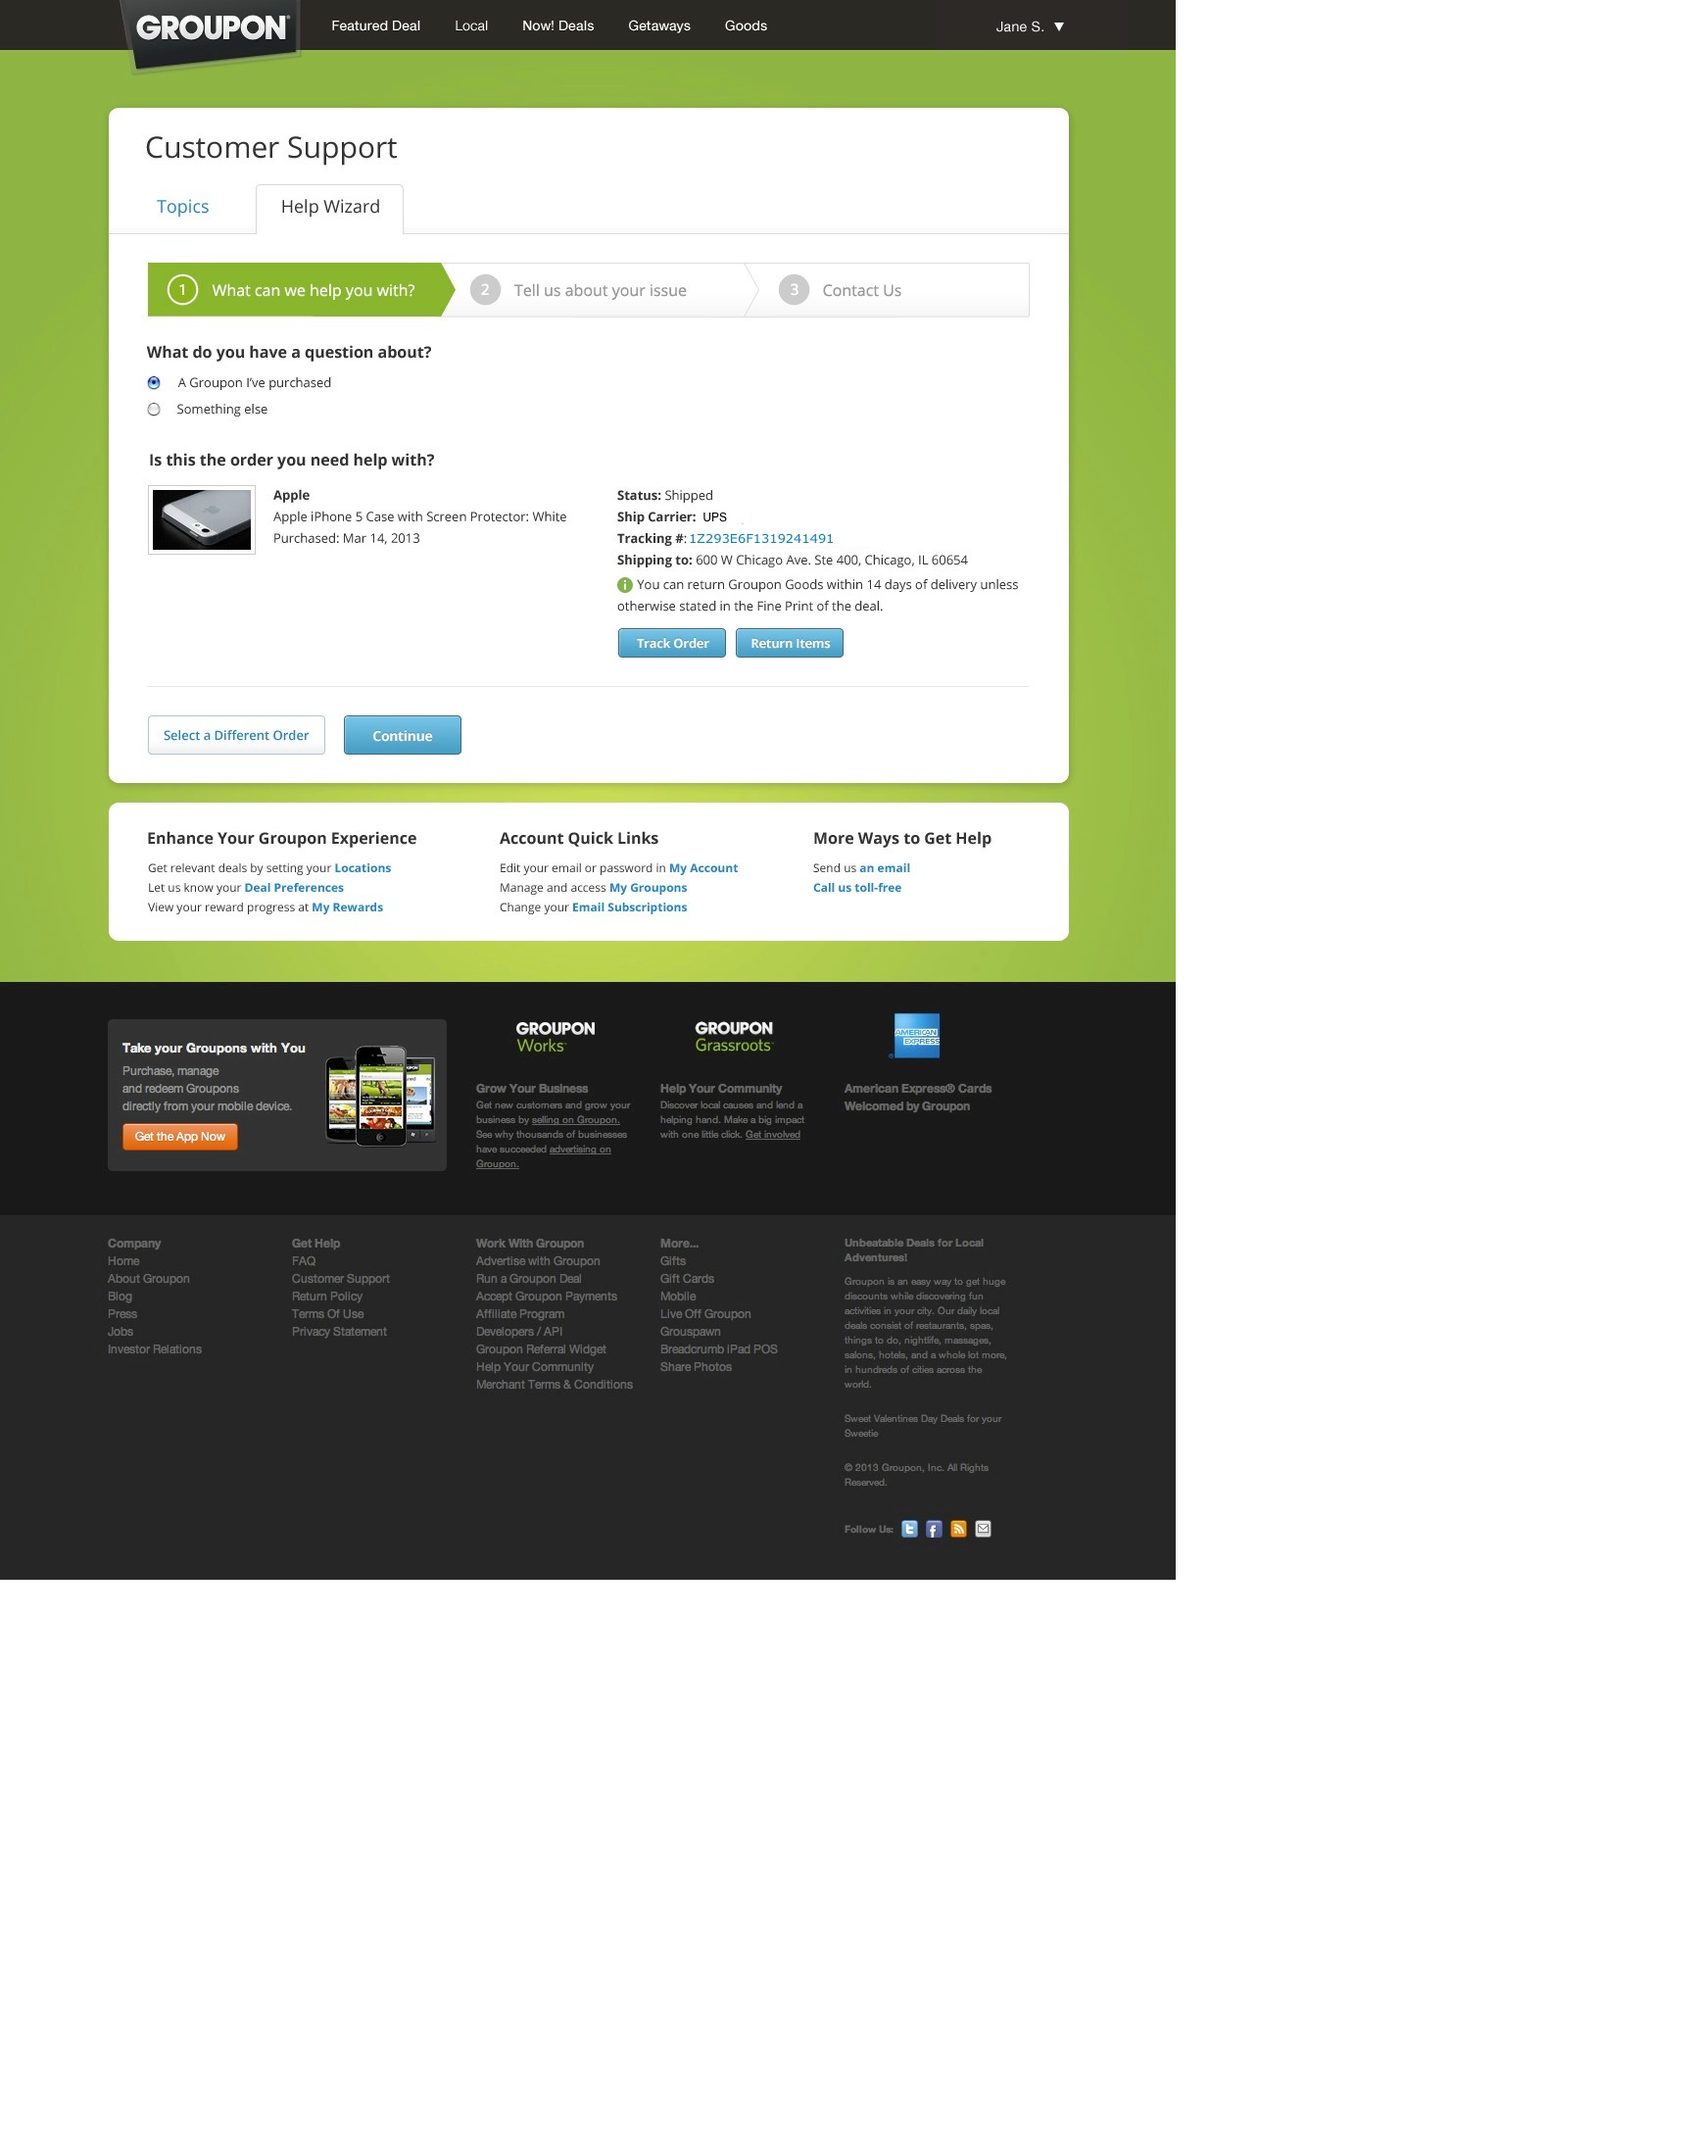
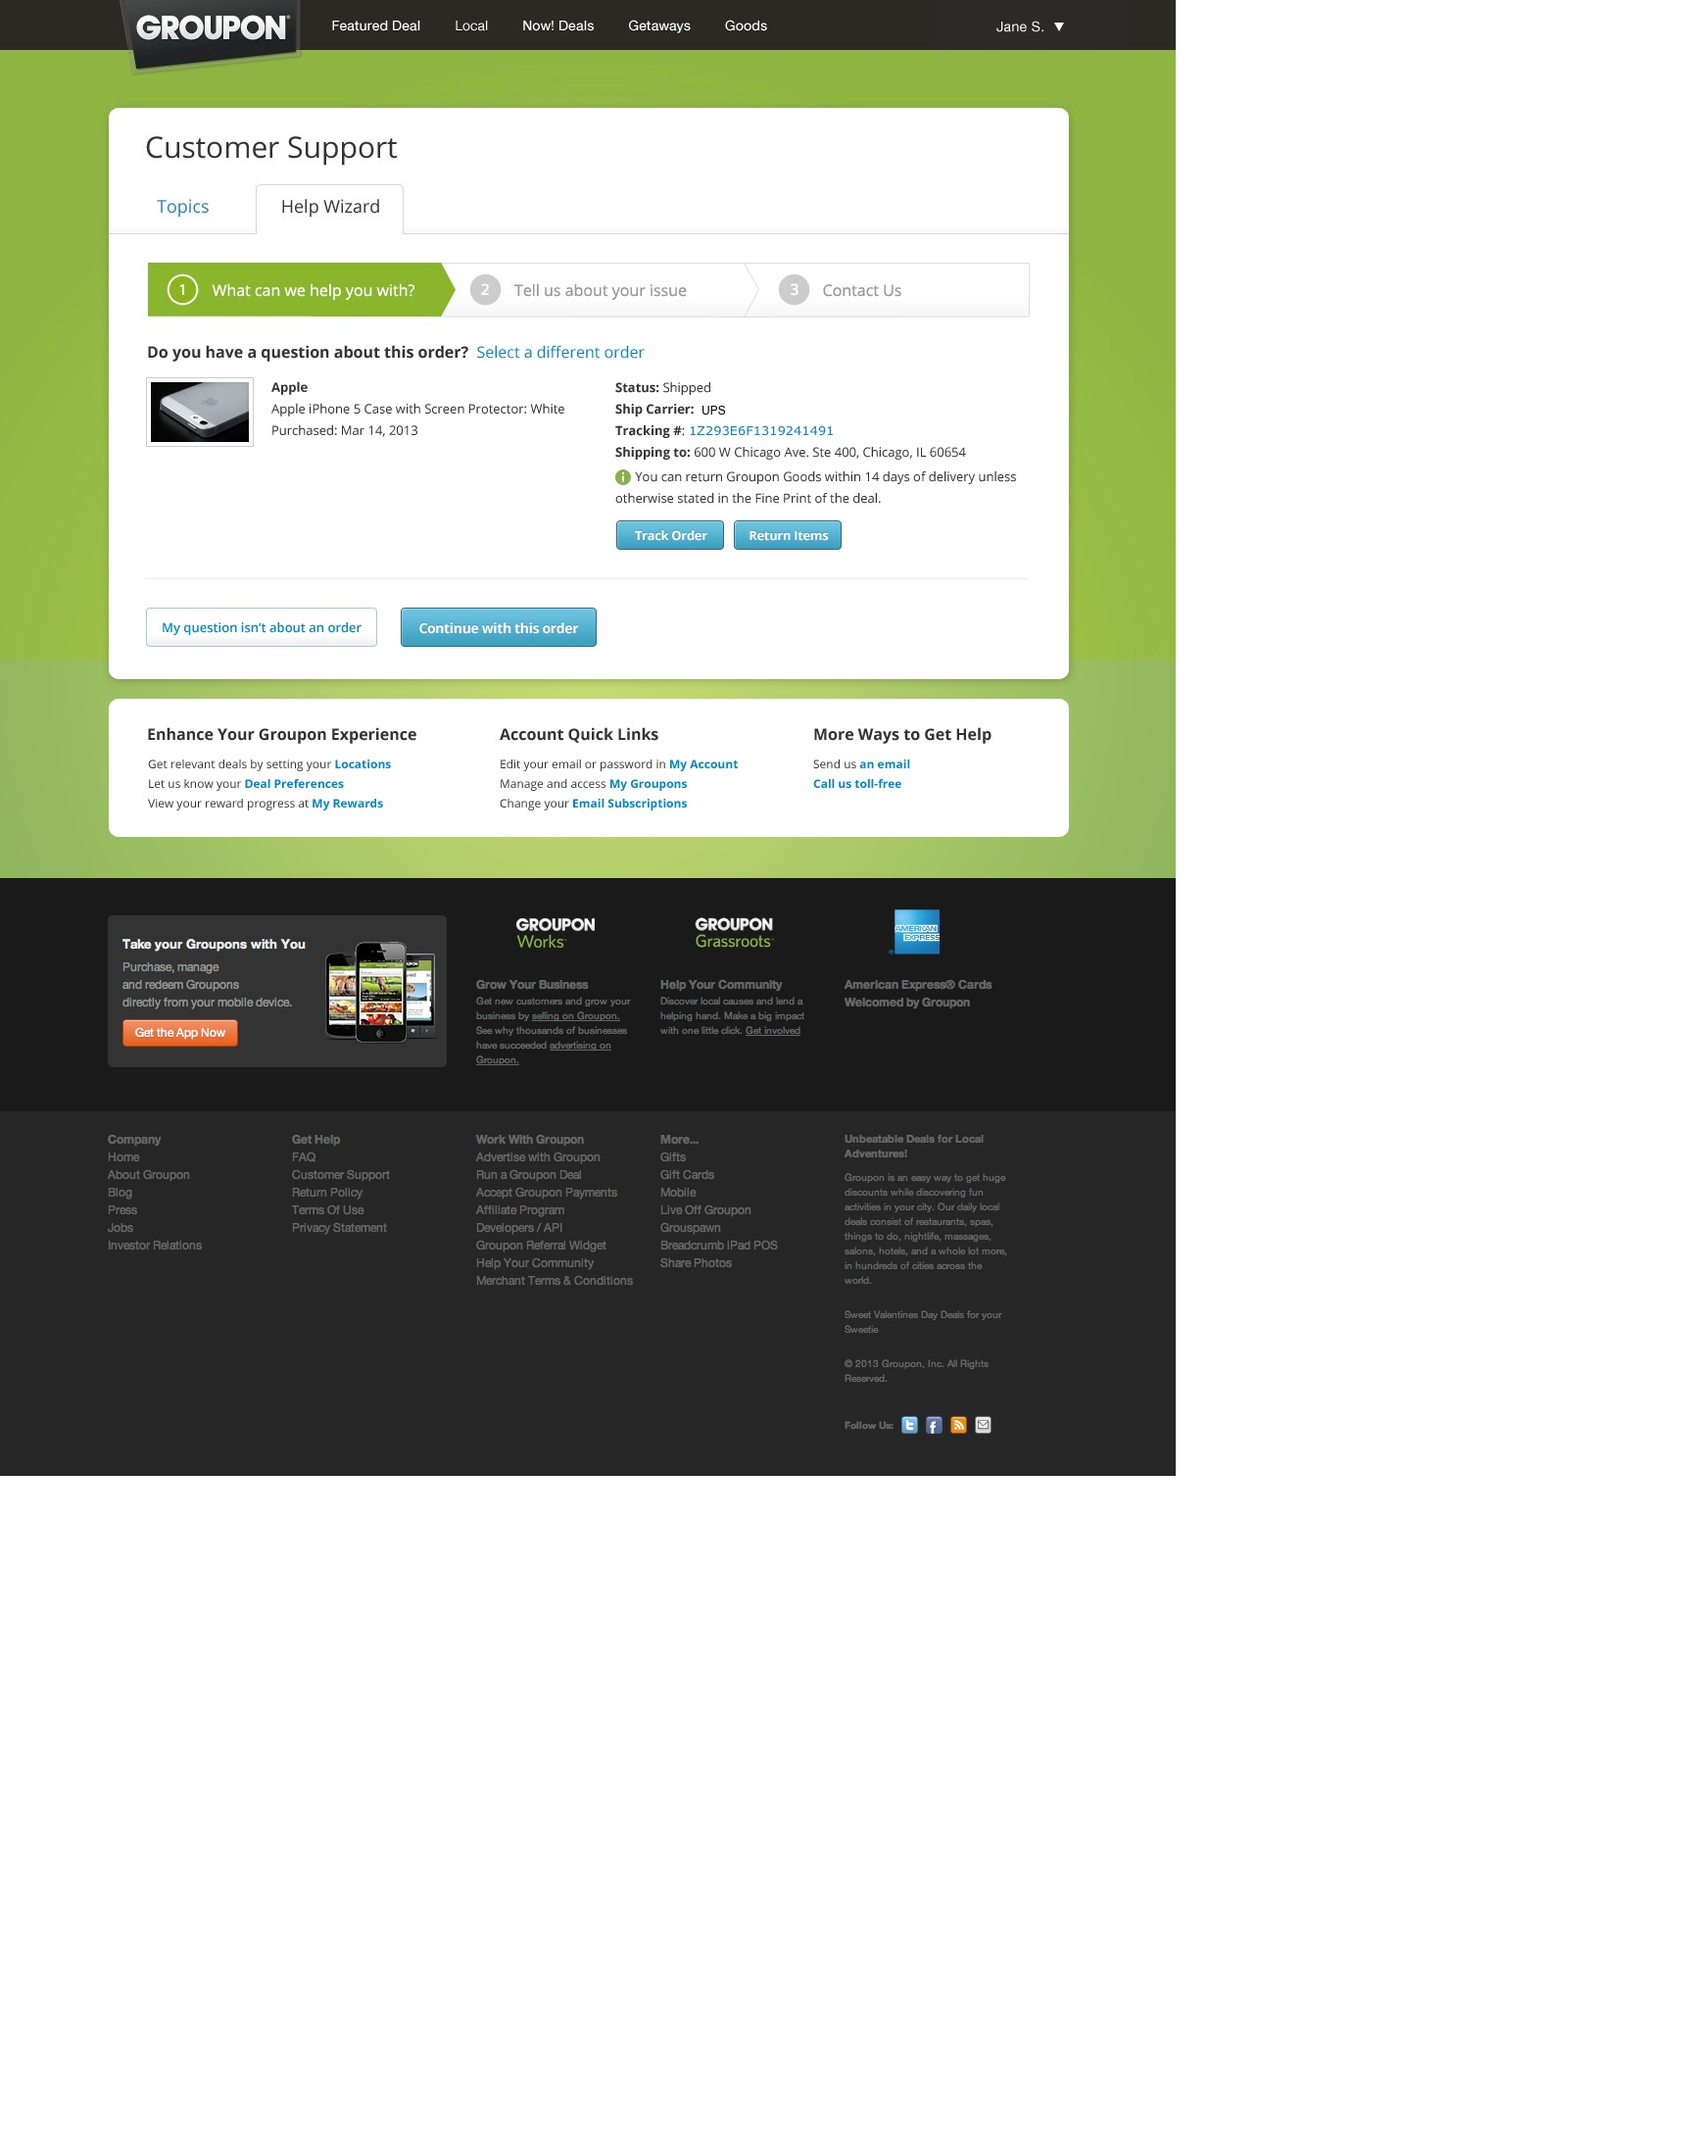
Updated Step 1 for all use cases

Changed region(s): [[0.0, 0.1546, 0.7188, 0.7422]]

diff --git a/Step1 - Balsan - Edit Order.html b/Step1 - Balsan - Edit Order.html
@@ -1,11 +1,14 @@
 <map name="GraffleExport">
+	<area shape=rect coords="295,1124,403,1143" href="Step1%20-%20Apple%20-%20Tracking.html">
+	<area shape=rect coords="292,1234,400,1253" href="Step1%20-%20Apple%20-%20Tracking.html">
+	<area shape=rect coords="291,1235,399,1254" href="Step1%20-%20Apple%20-%20Tracking.html">
+	<area shape=rect coords="716,472,824,505" href="Balsan%20Cancel%20Order.html">
+	<area shape=rect coords="603,472,706,505" href="Balsan%20Edit%20Order.html">
+	<area shape=rect coords="407,565,603,603" href="Step%202%20-%20Balsan%20DD1.html">
+	<area shape=rect coords="477,349,656,372" href="Select%20an%20order%20modal.html">
 	<area shape=rect coords="125,4,304,52" href="index.html">
-	<area shape=rect coords="722,580,830,613" href="Balsan%20Cancel%20Order.html">
-	<area shape=rect coords="609,580,712,613" href="Balsan%20Edit%20Order.html">
-	<area shape=rect coords="352,673,472,711" href="Step%202%20-%20Balsan%20DD1.html">
-	<area shape=rect coords="151,673,330,711" href="Select%20an%20order%20modal.html">
 	<area shape=rect coords="135,193,243,231" href="Cat%20Page%20-%20Default.html">
-	<area shape=rect coords="294,1236,402,1255" href="Step1%20-%20Apple%20-%20Tracking.html">
+	<area shape=rect coords="292,1236,400,1255" href="Step1%20-%20Apple%20-%20Tracking.html">
 	<area shape=rect coords="155,305,491,344" href="Step1%20-%20TomatoHead%20-%20Expired.html">
 </map>
 <img border=0 src="Step1%20-%20Balsan%20-%20Edit%20Order.jpg" usemap="#GraffleExport">

diff --git a/Step1 - Apple - No Tracking - TT.html b/Step1 - Apple - No Tracking - TT.html
@@ -1,10 +1,12 @@
 <map name="GraffleExport">
-	<area shape=rect coords="742,115,1089,798" href="Step1%20-%20Apple%20-%20No%20Tracking.html">
-	<area shape=rect coords="631,641,739,671" href="Return%20Modal%20No%20Tracking.html">
+	<area shape=rect coords="297,1184,405,1203" href="Step1%20-%20Apple%20-%20Tracking.html">
+	<area shape=rect coords="294,1295,402,1314" href="Step1%20-%20Apple%20-%20Tracking.html">
+	<area shape=rect coords="742,8,1089,691" href="Step1%20-%20Apple%20-%20No%20Tracking.html">
+	<area shape=rect coords="631,534,739,564" href="Return%20Modal%20No%20Tracking.html">
+	<area shape=rect coords="409,624,610,662" href="Step%202%20-%20Apple%20DD1.html">
+	<area shape=rect coords="486,351,665,370" href="Select%20an%20order%20modal.html">
 	<area shape=rect coords="125,4,304,52" href="index.html">
 	<area shape=rect coords="135,193,243,231" href="Cat%20Page%20-%20Default.html">
-	<area shape=rect coords="352,731,472,769" href="Step%202%20-%20Apple%20DD1.html">
-	<area shape=rect coords="151,731,330,769" href="Select%20an%20order%20modal.html">
 	<area shape=rect coords="135,193,243,231" href="Cat%20Page%20-%20Default.html">
 	<area shape=rect coords="293,1296,401,1315" href="Step1%20-%20Apple%20-%20Tracking.html">
 </map>

diff --git a/Step1 - Apple - No Tracking.html b/Step1 - Apple - No Tracking.html
@@ -1,10 +1,11 @@
 <map name="GraffleExport">
+	<area shape=rect coords="295,1184,403,1203" href="Step1%20-%20Apple%20-%20Tracking.html">
+	<area shape=rect coords="787,432,940,452" href="Step1%20-%20Apple%20-%20No%20Tracking%20-%20TT.html">
+	<area shape=rect coords="409,625,609,663" href="Step%202%20-%20Apple%20DD1.html">
+	<area shape=rect coords="484,350,656,370" href="Select%20an%20order%20modal.html">
+	<area shape=rect coords="631,535,739,565" href="Return%20Modal%20No%20Tracking.html">
 	<area shape=rect coords="125,4,304,52" href="index.html">
 	<area shape=rect coords="135,193,243,231" href="Cat%20Page%20-%20Default.html">
-	<area shape=rect coords="789,540,942,560" href="Step1%20-%20Apple%20-%20No%20Tracking%20-%20TT.html">
-	<area shape=rect coords="352,731,472,769" href="Step%202%20-%20Apple%20DD1.html">
-	<area shape=rect coords="151,731,330,769" href="Select%20an%20order%20modal.html">
-	<area shape=rect coords="631,641,739,671" href="Return%20Modal%20No%20Tracking.html">
 	<area shape=rect coords="134,191,242,229" href="Cat%20Page%20-%20Default.html">
 	<area shape=rect coords="292,1295,400,1314" href="Step1%20-%20Apple%20-%20Tracking.html">
 </map>

diff --git a/Step1 - Apple - Tracking.html b/Step1 - Apple - Tracking.html
@@ -1,10 +1,11 @@
 <map name="GraffleExport">
+	<area shape=rect coords="295,1189,403,1208" href="Step1%20-%20Apple%20-%20Tracking.html">
+	<area shape=rect coords="752,531,860,561" href="Return%20Modal.html">
+	<area shape=rect coords="632,531,740,561" href="UPS%20Tracking.html">
+	<area shape=rect coords="411,621,611,659" href="Step%202%20-%20Apple%20DD1.html">
+	<area shape=rect coords="485,348,664,374" href="Select%20an%20order%20modal.html">
+	<area shape=rect coords="703,431,852,447" href="UPS%20Tracking.html">
 	<area shape=rect coords="125,4,304,52" href="index.html">
-	<area shape=rect coords="703,541,852,557" href="UPS%20Tracking.html">
-	<area shape=rect coords="352,731,472,769" href="Step%202%20-%20Apple%20DD1.html">
-	<area shape=rect coords="151,731,330,769" href="Select%20an%20order%20modal.html">
-	<area shape=rect coords="752,641,860,671" href="Return%20Modal.html">
-	<area shape=rect coords="632,641,740,671" href="UPS%20Tracking.html">
 	<area shape=rect coords="135,193,243,231" href="Cat%20Page%20-%20Default.html">
 	<area shape=rect coords="295,1296,403,1315" href="Step1%20-%20Apple%20-%20Tracking.html">
 </map>

diff --git a/Step1 - TomatoHead - Expired.html b/Step1 - TomatoHead - Expired.html
@@ -1,8 +1,9 @@
 <map name="GraffleExport">
+	<area shape=rect coords="294,1128,402,1147" href="Step1%20-%20Apple%20-%20Tracking.html">
+	<area shape=rect coords="410,565,606,607" href="Step%202%20-Tomato%20Head%20DD1.html">
+	<area shape=rect coords="482,349,662,375" href="Select%20an%20order%20modal.html">
 	<area shape=rect coords="125,4,304,52" href="index.html">
-	<area shape=rect coords="350,670,471,711" href="Step%202%20-Tomato%20Head%20DD1.html">
-	<area shape=rect coords="151,673,330,711" href="Select%20an%20order%20modal.html">
 	<area shape=rect coords="135,193,243,231" href="Cat%20Page%20-%20Default.html">
-	<area shape=rect coords="293,1237,401,1256" href="Step1%20-%20Apple%20-%20Tracking.html">
+	<area shape=rect coords="293,1225,401,1244" href="Step1%20-%20Apple%20-%20Tracking.html">
 </map>
 <img border=0 src="Step1%20-%20TomatoHead%20-%20Expired.jpg" usemap="#GraffleExport">
